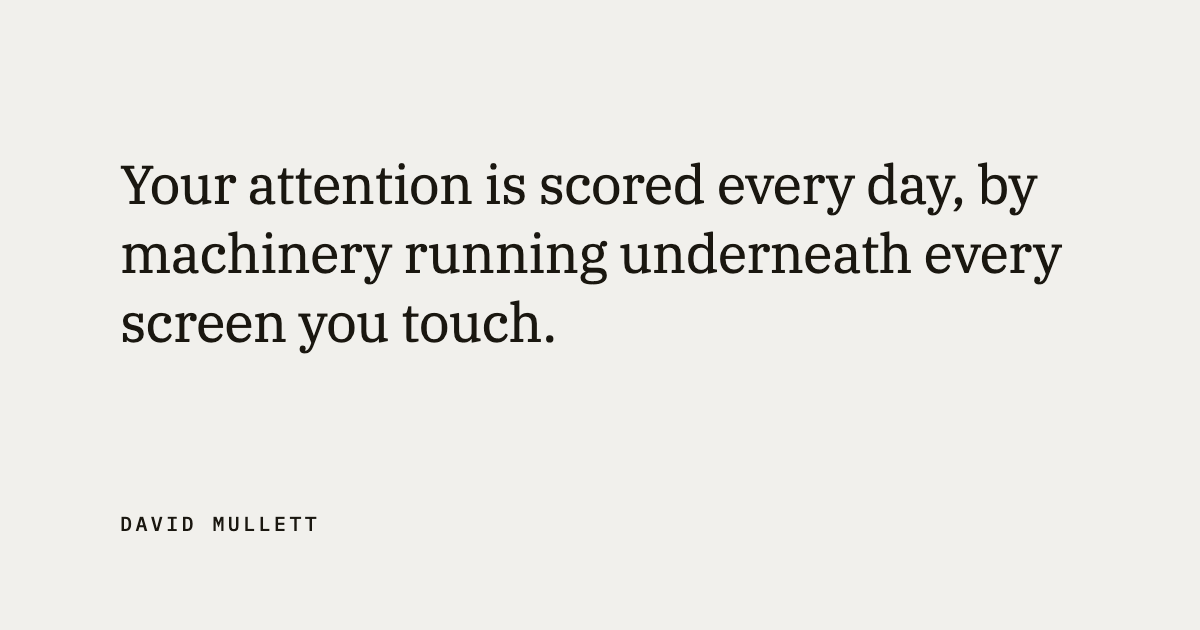
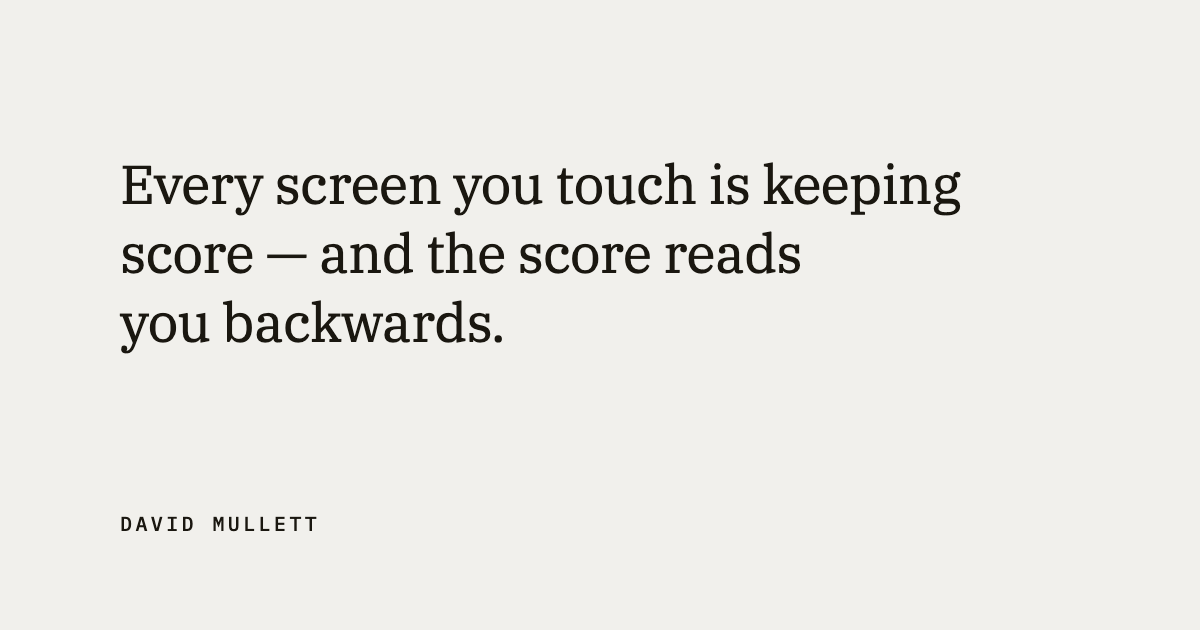
Hero per revised prompt: one-line H1, four body blocks, two beats; metadata and OG v4 follow

Changed region(s): [[0.0925, 0.2413, 0.8942, 0.4524], [0.0925, 0.4825, 0.4625, 0.573]]

diff --git a/index.html b/index.html
@@ -6,7 +6,7 @@
 <meta name="color-scheme" content="only light">
 <meta name="theme-color" content="#f1f0ec">
 <title>David Mullett</title>
-<meta name="description" content="Your attention is scored every day by machinery running underneath every screen you touch. I spent twenty years designing what people see. Now I’m writing the book about what those measurements miss.">
+<meta name="description" content="Every screen you touch is keeping score — and the score reads you backwards. I spent twenty years designing what people see. Now I’m writing the book about what those measurements miss.">
 
 <link rel="canonical" href="https://davidmullett.com/">
 <link rel="icon" href="/favicon.svg" type="image/svg+xml">
@@ -19,14 +19,14 @@
 <meta property="og:site_name" content="David Mullett">
 <meta property="og:url" content="https://davidmullett.com/">
 <meta property="og:title" content="David Mullett">
-<meta property="og:description" content="Your attention is scored every day by machinery running underneath every screen you touch. I spent twenty years designing what people see. Now I’m writing the book about what those measurements miss.">
+<meta property="og:description" content="Every screen you touch is keeping score — and the score reads you backwards. I spent twenty years designing what people see. Now I’m writing the book about what those measurements miss.">
 <meta property="og:image" content="https://davidmullett.com/og-image-v4.png">
 <meta property="og:image:width" content="1200">
 <meta property="og:image:height" content="630">
 
 <meta name="twitter:card" content="summary_large_image">
 <meta name="twitter:title" content="David Mullett">
-<meta name="twitter:description" content="Your attention is scored every day by machinery running underneath every screen you touch. I spent twenty years designing what people see. Now I’m writing the book about what those measurements miss.">
+<meta name="twitter:description" content="Every screen you touch is keeping score — and the score reads you backwards. I spent twenty years designing what people see. Now I’m writing the book about what those measurements miss.">
 <meta name="twitter:image" content="https://davidmullett.com/og-image-v4.png">
 
 <link rel="preconnect" href="https://fonts.googleapis.com">
@@ -87,7 +87,9 @@ nav { margin-bottom:52px; padding-bottom:16px; border-bottom:1px solid var(--rul
 header { margin-bottom:56px; }
 .hero { font-family:var(--serif); font-size:var(--t-hero); font-weight:400; line-height:1.34;
   letter-spacing:-0.012em; color:var(--ink); margin-bottom:32px; text-wrap:pretty; }
-.hero-sub { margin-bottom:24px; }
+.hero-body p { margin-bottom:1.6em; }
+.hero-body .beat { font-size:var(--t-lede); margin:1.8em 0; }
+.hero-body p:last-child { margin-bottom:0; }
 .header-meta { font-family:var(--mono); font-size:var(--t-label); font-weight:300; color:var(--ink-2);
   letter-spacing:0.05em; line-height:1.9; display:flex; flex-wrap:wrap; align-items:baseline; gap:8px 18px; }
 .header-meta a { font-family:var(--mono); font-size:var(--t-label); color:var(--ink-2); text-decoration:none; letter-spacing:0.05em; }
@@ -133,7 +135,7 @@ footer { margin-top:80px; padding-top:20px; border-top:1px solid var(--rule-lt);
       "@type":"Person","@id":"https://davidmullett.com/#person",
       "name":"David Mullett","url":"https://davidmullett.com/",
       "jobTitle":"Independent Researcher",
-      "description":"Your attention is scored every day by machinery running underneath every screen you touch. I spent twenty years designing what people see. Now I’m writing the book about what those measurements miss.",
+      "description":"Every screen you touch is keeping score — and the score reads you backwards. I spent twenty years designing what people see. Now I’m writing the book about what those measurements miss.",
       "email":"d@loopzero.org",
       "sameAs":["https://orcid.org/0009-0004-2543-1664","https://scholar.google.com/citations?user=3SninzcAAAAJ","https://github.com/davidmullett"],
       "affiliation":{"@type":"Organization","name":"Loopzero","url":"https://loopzero.org"},
@@ -166,15 +168,30 @@ footer { margin-top:80px; padding-top:20px; border-top:1px solid var(--rule-lt);
     </svg>
   </a>
 
-  <h1 class="hero">Your attention is scored every day, by machinery running underneath every screen you touch. Below the glass, your attention is counted, weighed, and used to decide what happens to you&nbsp;next.</h1>
+  <h1 class="hero">Every screen you touch is keeping score — and the score reads you&nbsp;backwards.</h1>
 
-  <p class="hero-sub">
-    I spent twenty years above the glass designing what people see — commercials
-    at Ridley Scott Associates, a cinematic VR studio, Lead Product Designer at
-    Meta Reality Labs on a team called Engagement and Growth. Then I left to
-    follow attention the whole way down: from the screens we touch, to the
-    numbers that judge us, to the story you tell yourself about who you are.
+  <div class="hero-body">
+  <p>
+    Below the glass, machinery counts your attention, weighs it, and uses it to
+    decide what happens to you next. It counts a sleepless night of scrolling as
+    healthy. The hour you put the phone down, it doesn’t count at all. A machine
+    can only weigh what reaches it. Then it serves you more of what it misread.
   </p>
+  <p class="beat">
+    Now the screens talk back, and the thumb that trained the feed is training
+    what they say.
+  </p>
+  <p>
+    I spent twenty years above the glass, designing what people see: commercials
+    at Ridley Scott Associates, a cinematic VR studio, Lead Product Designer at
+    Meta Reality Labs on a team called Engagement and Growth. Then I went below
+    it, to follow the score all the way down — from the feed, to the numbers
+    behind it, to the story you tell yourself about who you are.
+  </p>
+  <p class="beat">
+    The check has to come from outside the loop. That’s what I went looking for.
+  </p>
+  </div>
 
   <div class="header-meta">
     <a href="mailto:d@loopzero.org">d@loopzero.org</a>

diff --git a/og-card.html b/og-card.html
@@ -40,7 +40,7 @@
 </style>
 </head>
 <body>
-  <p class="line">Your attention is scored every day, by machinery running underneath every screen you&nbsp;touch.</p>
+  <p class="line">Every screen you touch is keeping score — and the score reads you&nbsp;backwards.</p>
   <span class="name">David Mullett</span>
 </body>
 </html>
